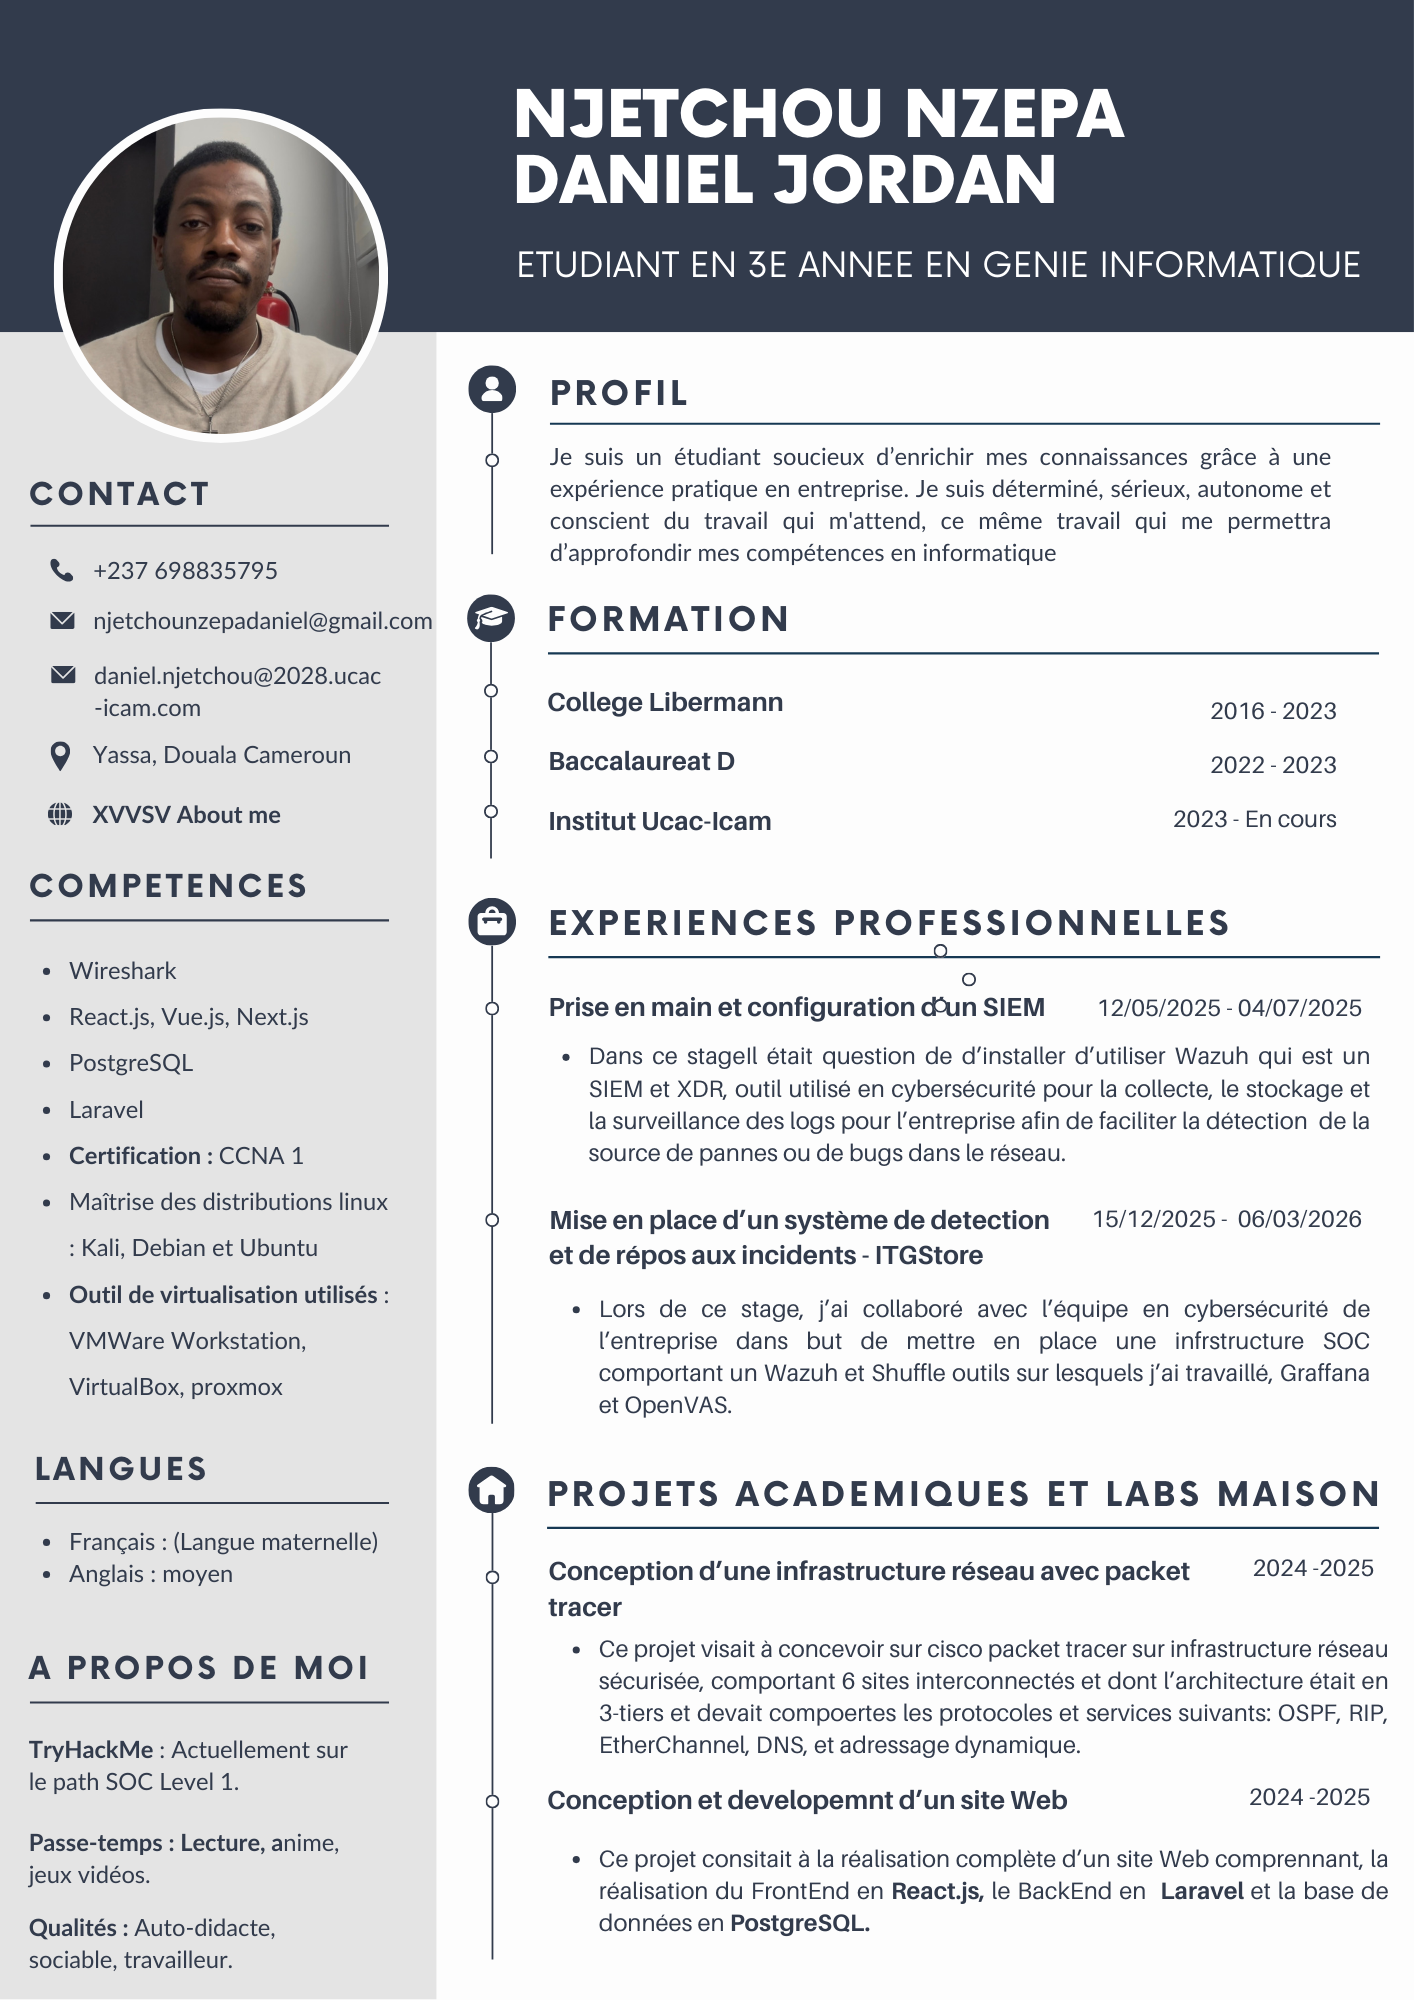
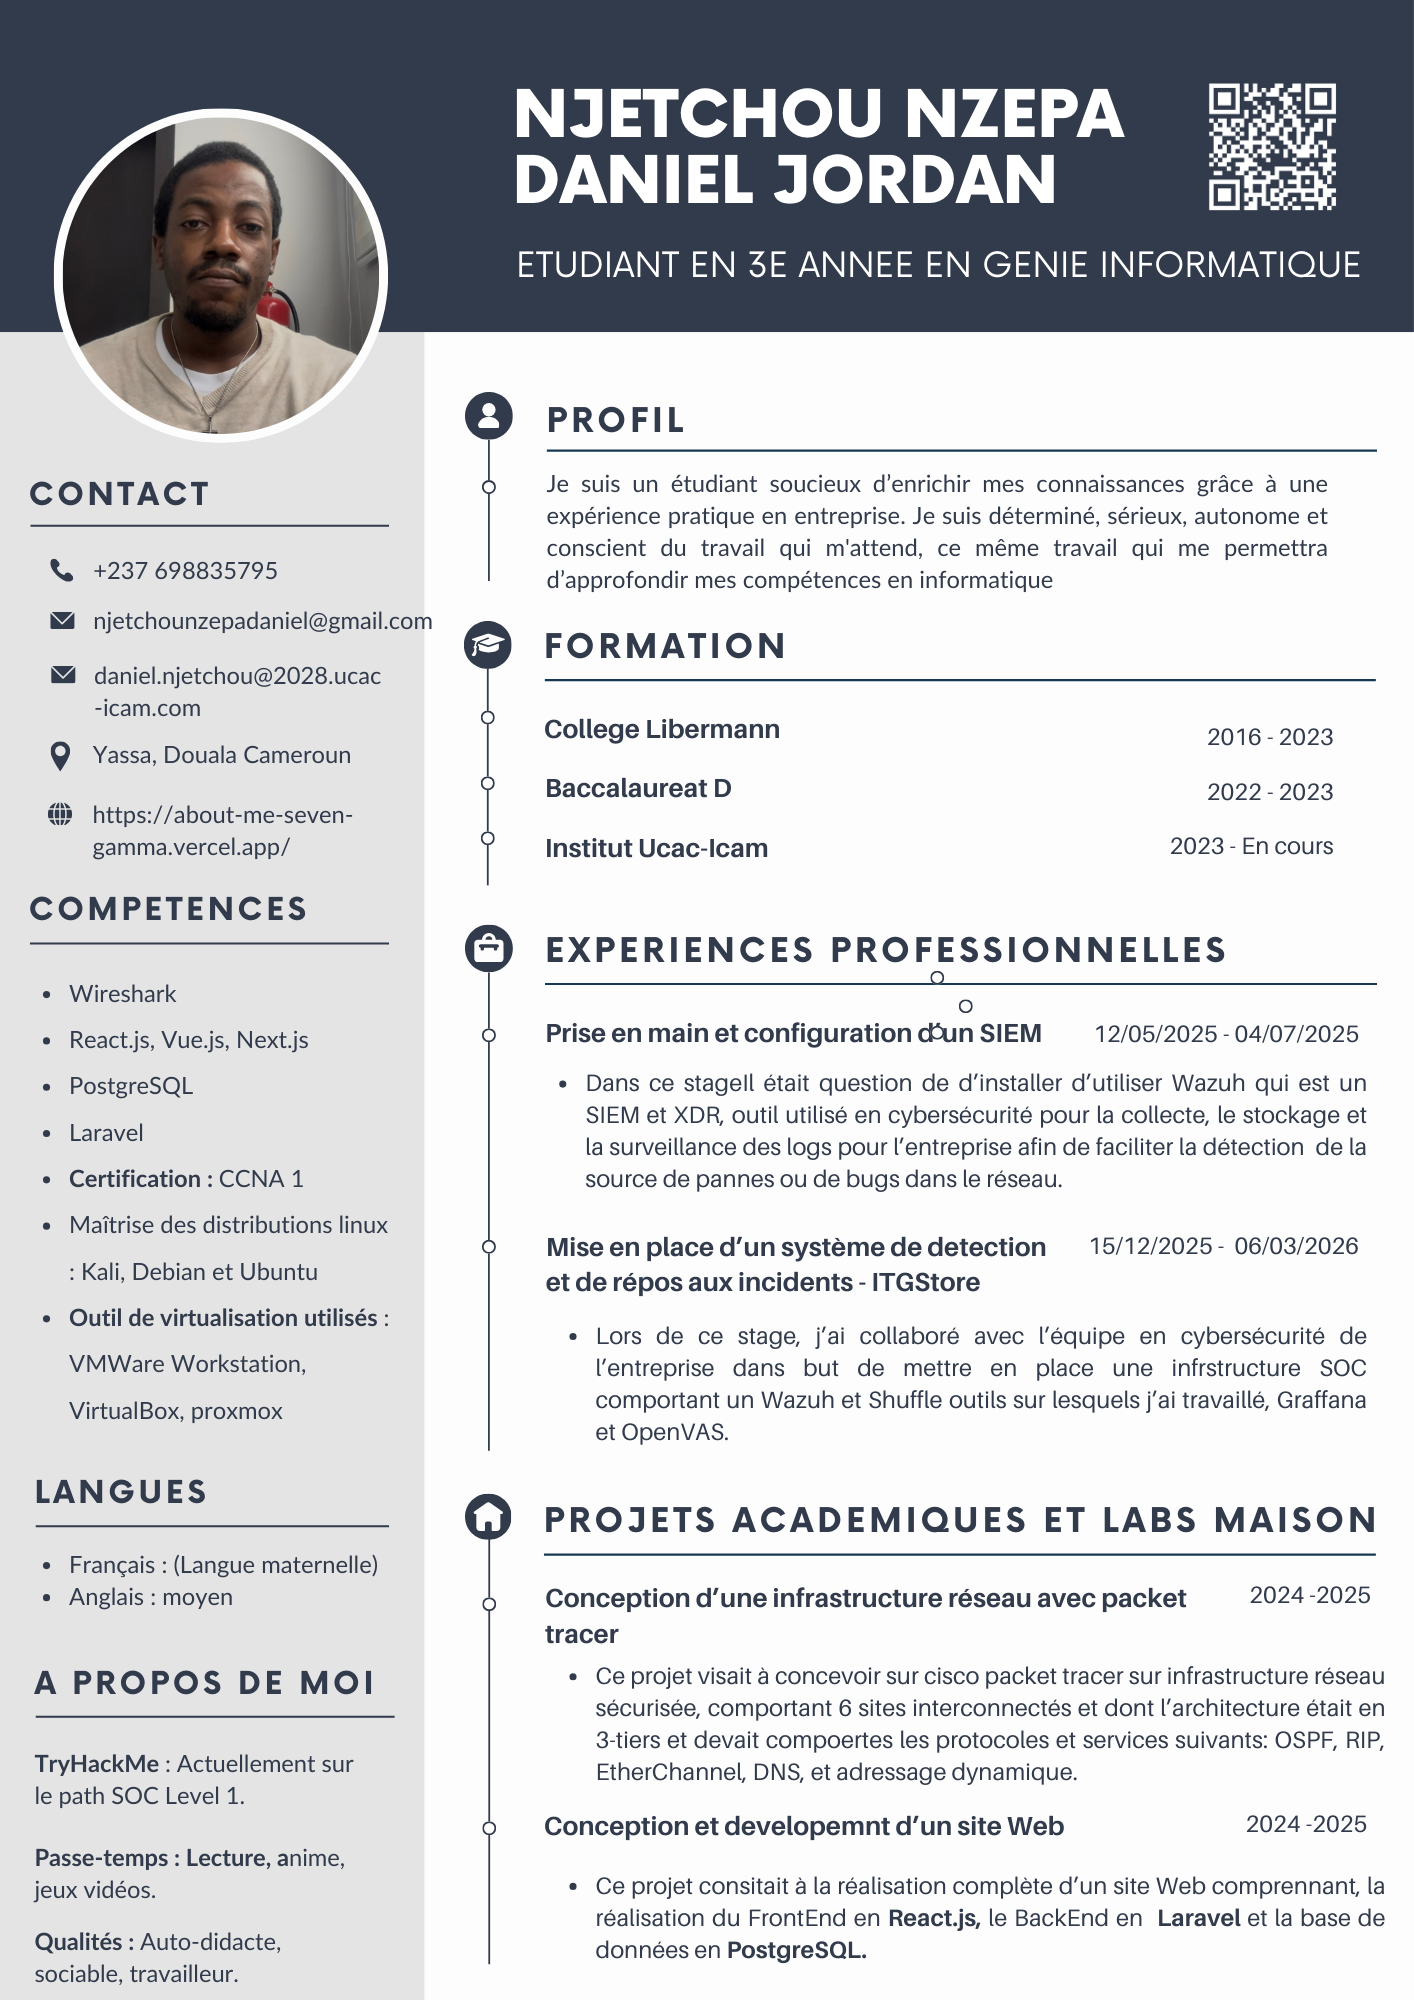
portfolio V2.0

Changed region(s): [[0.0, 0.155, 0.9958, 1.0], [0.8402, 0.031, 0.9646, 0.124]]

diff --git a/src/views/HomeView.vue b/src/views/HomeView.vue
@@ -1,25 +1,28 @@
 <script setup>
 import { ref } from 'vue'
 import ProjectCard from '../components/ProjectCard.vue'
+import networkImage from '../assets/network.png'
+import devImage from '../assets/dev.png'
+import socImage from '../assets/soc.png'
 
 const projects = ref([
   {
     title: "Infrastructure réseau sécurisée",
-    description: "Conception d'une infrastructure réseau avec 6 sites interconnectés sur Cisco Packet Tracer",
+    description: "Conception d'une infrastructure réseau avec 6 sites interconnectés sur Cisco Packet Tracer.",
     technologies: ["OSPF", "RIP", "EtherChannel", "DNS"],
-    image: "network-project.jpg" // Vous pouvez ajouter une image plus tard
+    image: networkImage // Vous pouvez ajouter une image plus tard
   },
   {
-    title: "Site Web Full Stack",
-    description: "Développement complet d'un site web avec React.js, Laravel et PostgreSQL",
+    title: "Site Web pour un restaurant",
+    description: "Développement complet d'un site web avec React.js, Laravel et PostgreSQL dans le cadre d'un projet.",
     technologies: ["React.js", "Laravel", "PostgreSQL"],
-    image: "web-project.jpg"
+    image: devImage
   },
   {
     title: "Infrastructure SOC",
-    description: "Mise en place d'une infrastructure SOC avec Wazuh, Shuffle, Grafana et OpenVAS",
+    description: "Mise en place d'un système d'orchestration et automatisation des réponses suite aux incidents avec l'aide de Wazuh et Shuffle dans infrastructure SOC comprennant aussi OpenVAS et Graffana.",
     technologies: ["Wazuh", "Shuffle", "Grafana", "OpenVAS"],
-    image: "soc-project.jpg"
+    image: socImage
   }
 ])
 </script>
@@ -29,13 +32,12 @@ const projects = ref([
     <!-- Hero Section -->
     <section class="hero">
       <div class="hero-content">
-        <img src="../assets/logo.png" alt="Logo" class="logo" />
         <h1>NJETCHOU NZEPA DANIEL JORDAN</h1>
         <h2>Étudiant en 3ème année en Génie Informatique</h2>
         <p class="subtitle">Passionné par la cybersécurité et le développement web</p>
         <div class="hero-buttons">
           <router-link to="/about" class="btn primary">En savoir plus</router-link>
-          <a href="https://drive.google.com/uc?export=download&id=1jXd34OM5SNcjfzLBpcSgkIEQONp0WnQz" class="btn secondary" target="_blank">
+          <a href="https://drive.google.com/uc?export=download&id=1FGdZjynJrrJAzAsSuEmwoQA7qzJ3ekxQ" class="btn secondary" target="_blank">
             Télécharger mon CV
           </a>
         </div>
@@ -79,7 +81,7 @@ const projects = ref([
 }
 
 .hero {
-  background: linear-gradient(135deg, #667eea 0%, #764ba2 100%);
+  background-color: #323b4c;
   color: white;
   padding: 4rem 2rem;
   text-align: center;

diff --git a/src/views/ContactView.vue b/src/views/ContactView.vue
@@ -64,62 +64,9 @@ const envoyerMessage = () => {
 
           <!-- Réseaux sociaux -->
           <div class="social-links">
-            <a href="#" class="social-link">LinkedIn</a>
-            <a href="#" class="social-link">GitHub</a>
-            <a href="#" class="social-link">Twitter</a>
+            <a href="#" class="https://www.linkedin.com/in/daniel-jordan-njetchou-nzepa-6a057733b?utm_source=share_via&utm_content=profile&utm_medium=member_ios">LinkedIn</a>
+            <a href="#" class="https://github.com/nnd-gb">GitHub</a>
           </div>
-        </div>
-
-        <!-- Formulaire de contact -->
-        <div class="contact-form">
-          <h2>Envoyez-moi un message</h2>
-          <form @submit.prevent="envoyerMessage">
-            <div class="form-group">
-              <label for="nom">Nom complet</label>
-              <input 
-                type="text" 
-                id="nom" 
-                v-model="formData.nom"
-                required
-                placeholder="Votre nom"
-              >
-            </div>
-            
-            <div class="form-group">
-              <label for="email">Email</label>
-              <input 
-                type="email" 
-                id="email" 
-                v-model="formData.email"
-                required
-                placeholder="votre@email.com"
-              >
-            </div>
-            
-            <div class="form-group">
-              <label for="sujet">Sujet</label>
-              <input 
-                type="text" 
-                id="sujet" 
-                v-model="formData.sujet"
-                required
-                placeholder="Sujet de votre message"
-              >
-            </div>
-            
-            <div class="form-group">
-              <label for="message">Message</label>
-              <textarea 
-                id="message" 
-                v-model="formData.message"
-                required
-                placeholder="Votre message..."
-                rows="5"
-              ></textarea>
-            </div>
-            
-            <button type="submit" class="submit-btn">Envoyer le message</button>
-          </form>
         </div>
       </div>
     </div>
@@ -158,7 +105,7 @@ const envoyerMessage = () => {
 }
 
 .contact-content {
-  display: grid;
+  display: inline;
   grid-template-columns: 1fr 1fr;
   gap: 3rem;
 }

diff --git a/src/App.vue b/src/App.vue
@@ -9,7 +9,7 @@ import { RouterLink, RouterView } from 'vue-router'
         <div class="nav-container">
           <router-link to="/" class="logo">
             <img src="./assets/logo.png" alt="Logo" class="nav-logo" />
-            <span></span>
+            <span>NJETCHOU N.D.J.</span>
           </router-link>
           
           <ul class="nav-menu">
@@ -31,7 +31,7 @@ import { RouterLink, RouterView } from 'vue-router'
         <div class="footer-links">
           <a href="https://github.com/nnd-gb" target="_blank">GitHub</a>
           <a href="#" target="_blank">LinkedIn</a>
-          <a href="#" target="_blank">TryHackMe</a>
+          <a href="https://www.linkedin.com/in/daniel-jordan-njetchou-nzepa-6a057733b?utm_source=share_via&utm_content=profile&utm_medium=member_ios" target="_blank">TryHackMe</a>
         </div>
       </div>
     </footer>

diff --git a/index.html b/index.html
@@ -2,9 +2,9 @@
 <html lang="en">
   <head>
     <meta charset="UTF-8" />
-    <link rel="icon" type="image/svg+xml" href="/vite.svg" />
+    <link rel="icon" type="image/svg+xml" href="/src/assets/logo.png" />
     <meta name="viewport" content="width=device-width, initial-scale=1.0" />
-    <title>nndj-portfolio</title>
+    <title>Njetchou : about me</title>
   </head>
   <body>
     <div id="app"></div>

diff --git a/src/views/AboutView.vue b/src/views/AboutView.vue
@@ -1,7 +1,7 @@
 <script setup>
 import { ref } from 'vue'
 
-const cvDriveLink = 'https://drive.google.com/your-cv-link' // À remplacer par votre vrai lien
+const cvDriveLink = 'https://drive.google.com/uc?export=download&id=1FGdZjynJrrJAzAsSuEmwoQA7qzJ3ekxQ' // À remplacer par votre vrai lien
 </script>
 
 <template>
